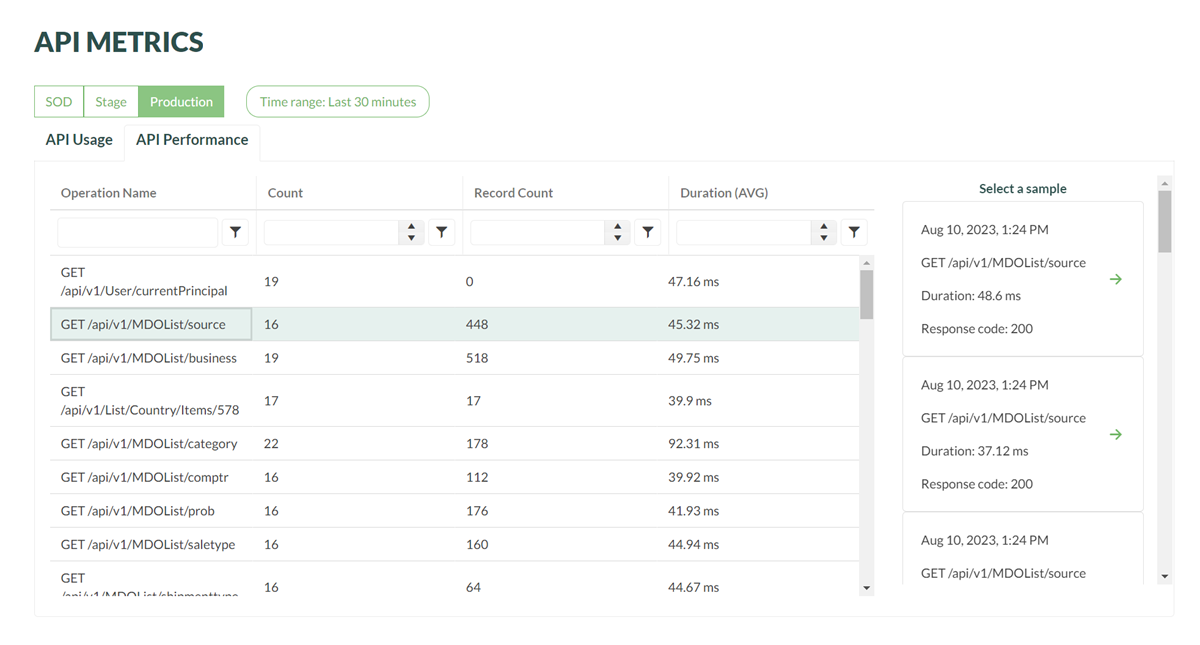
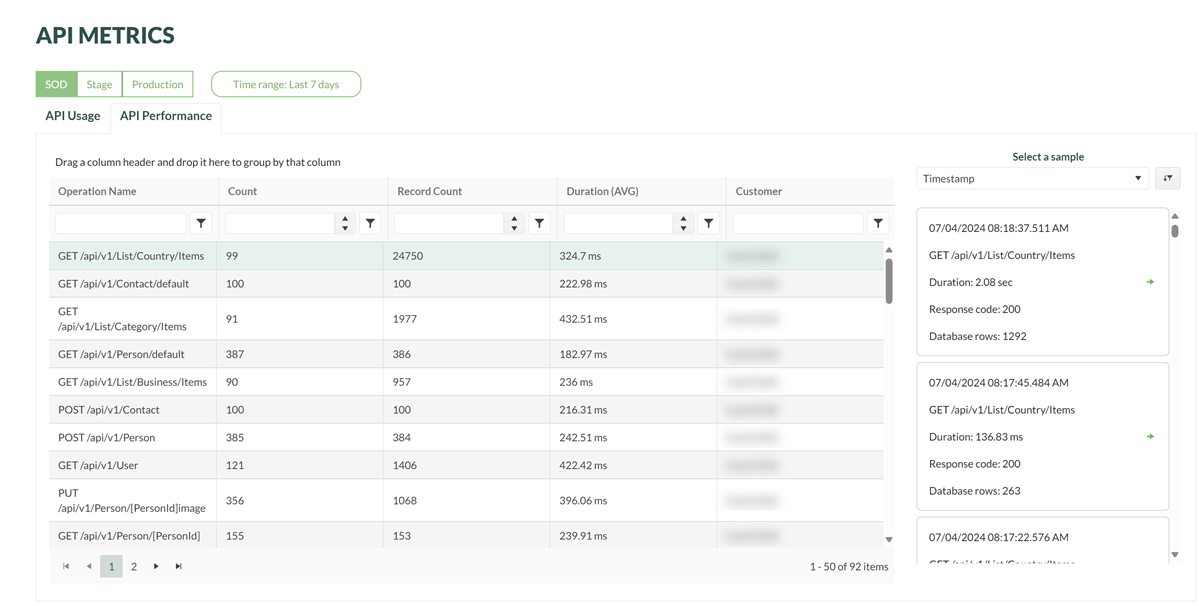
Updated Developer Portal - API Performance - images and text for 1.24 #1252

diff --git a/docs/en/developer-portal/analytics/metrics-performance.md b/docs/en/developer-portal/analytics/metrics-performance.md
@@ -23,9 +23,9 @@ The **API Performance tab** shows API-level application performance for one spec
 [!include[Go to the app page](../includes/go-to-app-page.md)]
 <!-- List starts in the include. Next line MUST be 2. -->
 
-2. Select **API metrics**, then select **API Usage** tab.
+2. Select **API metrics**, then select **API Performance** tab.
 
-3. Select a time range interval (days, weeks, or months).
+3. Select a time range interval (minutes, hours or days).
 
 4. Click through the environment specific buttons.
 <!-- markdownlint-restore -->
@@ -40,13 +40,18 @@ The **API Performance tab** shows API-level application performance for one spec
 | Count | The number of API invocations to the endpoint. |
 | Record Count | The number of database records selected by the API invocation. |
 | Duration (AVG) | The average number number of milliseconds elapsed for each of all API invocations. |
+| Customer | The customer context identifier that invoked the API. |
 
 > [!TIP]
 > Click on a row to observe the samples (individual invocations) related to the endpoint.
 
+When there are many rows, you can filter the list by typing in the search box. The list will update as you type.
+
 ## Filter by sample
 
 * To see the request details, select one of the samples from the samples list.
+
+    Observe the *sort by* dropdown menu above the samples. Use the sort option to sort the samples according to timestamp, database rows and duration.
 
     ![API performance selected row -screenshot][img2]
 
